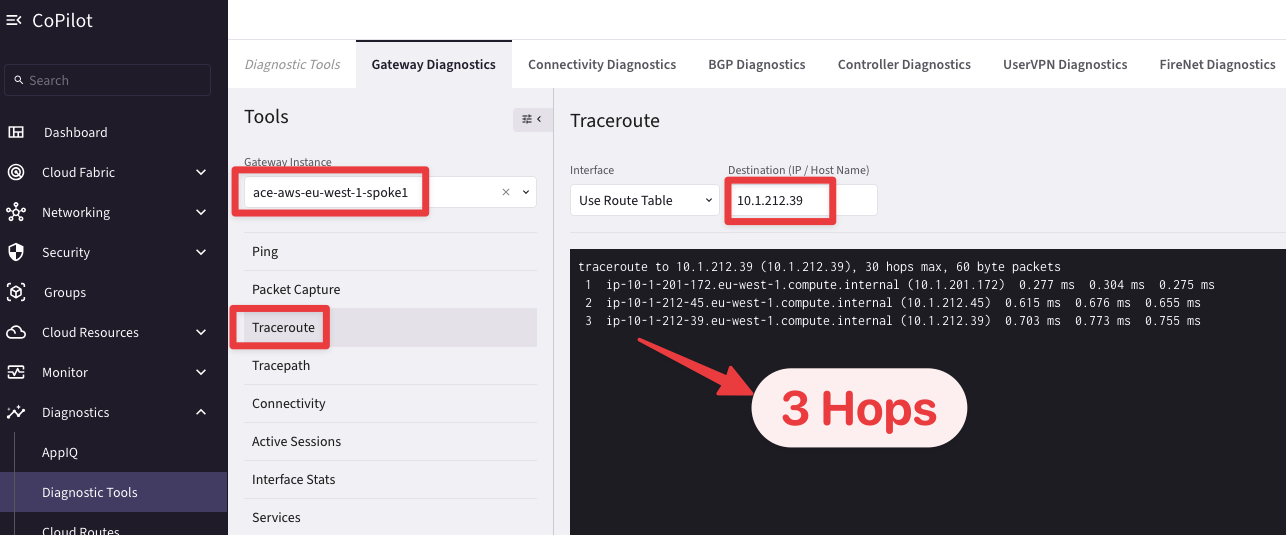
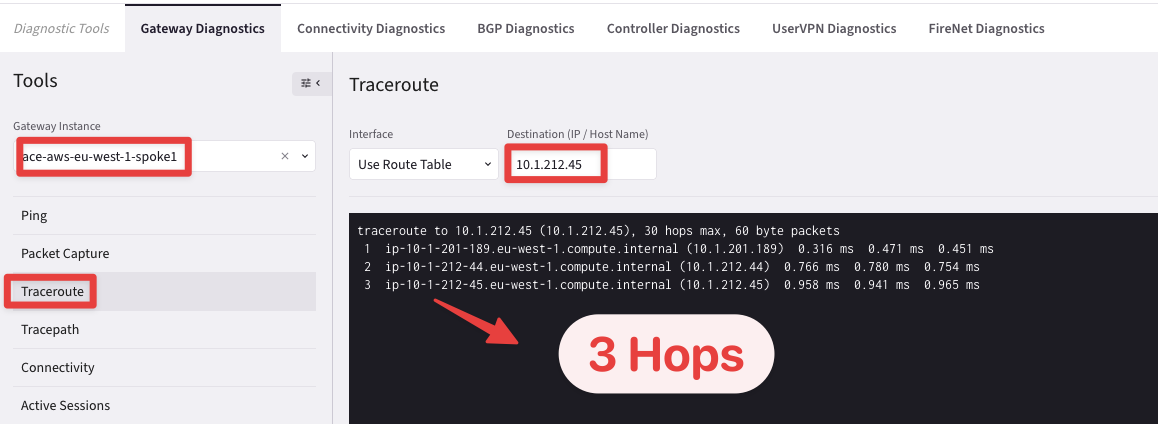
update for ops

diff --git a/ace_ops/docs/lab3.md b/ace_ops/docs/lab3.md
@@ -67,7 +67,7 @@ Ping is successful from the Transit Gateway to BU1 Frontend.
 
 ```{figure} images/lab3-bu2ping.png
 ---
-height: 400px
+height: 300px
 align: center
 ---
 Ping is successful from the Transit Gateway to BU2 Mobile App.
@@ -187,29 +187,13 @@ align: center
 Exclude the CIDR
 ```
 
-- Execute a ping from **BU1 Frontend** to **BU2 Mobile App** to verify connectivity; results should indicate a working connection.
+#### 2.4.1 FireNet - Verification using the Diagnostic Tools
 
-```{figure} images/lab3-pingok2.png
----
-align: center
----
-Ping is ok
-```
+- Run `traceroute` directly from Spoke1 in EU-WEST-1, the gateway in the same VPC as the **Frontend** instance.
 
-- Launch a **traceroute** towards the Private IP address of the BU2 Mobile App.
+- Navigate to **CoPilot > Diagnostics > Diagnostic Tools**. Select the **_ace-aws-eu-west-1-spoke1_** gateway, then run traceroute to the private IP address of the Mobile-App instance.
 
-```{figure} images/lab3-traceroute.png
----
-align: center
----
-Traceroute is ok
-```
-
-- Alternatively, you can run traceroute directly from Spoke1 in EU-WEST-1—the gateway in the same VPC as the Frontend instance.
-
-- Navigate to **CoPilot > Diagnostics > Diagnostics Tools**. Select the _ace-aws-eu-west-1-spoke1_ gateway, then run traceroute to the private IP address of the Mobile-App instance.
-
-```{figure} images/lab3-traceroutespoke.png
+```{figure} images/pi
 ---
 align: center
 ---
@@ -221,6 +205,28 @@ The traceroute outcome shows the whole path from the source, the BU1 Frontend, t
 
 <ins>Undoubtedly, the Firewall is excluded from this path!</ins>
 ```
+
+#### 2.4.2 FireNet - Verification using SSH client <span style='color:#33ECFF'>(BONUS)</span></summary>
+
+- Alternatively, you can execute a `ping` from **BU1 Frontend** to **BU2 Mobile App** to verify connectivity; results should indicate a working connection.
+
+```{figure} images/lab3-pingok2.png
+---
+align: center
+---
+Ping is ok
+```
+
+- Initiate a `traceroute` to the private IP address of the BU2 Mobile App.
+
+```{figure} images/lab3-traceroute.png
+---
+align: center
+---
+Traceroute is ok
+```
+
+### 2.5 Discarding the workaround
 
 - <ins>Remove</ins> the _workaround_ and perform a thorough review of the Firewall configuration.
 
@@ -239,9 +245,9 @@ align: center
 Remove the exemption
 ```
 
-### 2.1 Health-check mechanism failure
+### 2.6 Health-check mechanism failure
 
-Continue troubleshooting using the packet capture feature on the interface of the transit gateway attached to the NGFW.
+Continue troubleshooting by using the packet capture feature on the transit gateway interface connected to the NGFW.
 
 ```{figure} images/lab3-ethernet01.png
 ---
@@ -251,7 +257,41 @@ align: center
 eth-fn0 interface
 ```
 
-- Maintain a continuous ping from the BU1 Frontend session on your SSH client to the private IP of the BU2 Mobile App.
+#### 2.6.1 Connectivity test Using the Diagnostic Tools
+
+- Navigate to **CoPilot > Diagnostics > Diagnostic Tools**, select the **_ace-aws-eu-west-1-spoke1_** gateway, and generate a ping to the **BU2 Mobile App** private IP address.
+
+```{tip}
+To capture packets on the Transit Gateway, duplicate the tab and start a packet capture on the **eth-fn0** interface <ins>before generating the ICMP traffic</ins>.
+```
+
+```{figure} images/lab23-cp111.png
+---
+height: 300px
+align: center
+---
+Packet Capture
+```
+
+```{figure} images/lab23-cp112.png
+---
+height: 300px
+align: center
+---
+Ping
+```
+
+```{figure} images/lab23-cp113.png
+---
+height: 300px
+align: center
+---
+Packet Capture outcome
+```
+
+#### 2.6.2 Connectivity test Using the SSH client <span style='color:#33ECFF'>(BONUS)</span></summary>
+
+- Alternatively, maintain an open SSH session on the **BU1 Frontend** and generate ICMP Echo requests to the private IP address of the **BU2 Mobile App**.
 
 ```{figure} images/lab3-ethernet02.png
 ---
@@ -265,8 +305,7 @@ ping
 Refer always to your personal POD Portal for the IP addresses!
 ```
 
-- Navigate to **CoPilot > Diagnostics > Diagnostics Tools**. Select the **_ace-aws-eu-west-1-transit1_** gateway, then choose **`Packet Capture`** from the available features. Select the `eth-fn0` interface, set the duration to **10** seconds, and click **Run**. When the results appear, you can filter by "icmp."
-
+- Navigate to **CoPilot > Diagnostics > Diagnostics Tools**. Select the **_ace-aws-eu-west-1-transit1_** gateway, then choose **`Packet Capture`** from the available features. Select the `eth-fn0` interface, set the duration to **10** seconds, and click **Run**. When the results appear, you can filter by **"icmp"**.
 
 ```{figure} images/lab3-ethernet03.png
 ---
@@ -278,7 +317,7 @@ packet capture
 
 The observed traffic consists solely of ICMP echo requests issued by the Transit Gateway to the firewall’s LAN interface. The firewall is not producing echo replies; consequently, the Transit Gateway has no alternative but to drop the ICMP traffic generated by the BU1 Frontend, as the health-check mechanism has clearly failed.
 
-### 2.2 NGFW Misconfiguration
+### 2.7 NGFW Misconfiguration
 
 - Log in to the FW (<ins>refer to your POD portal for the credentials</ins>) and explore the configuration.
 
